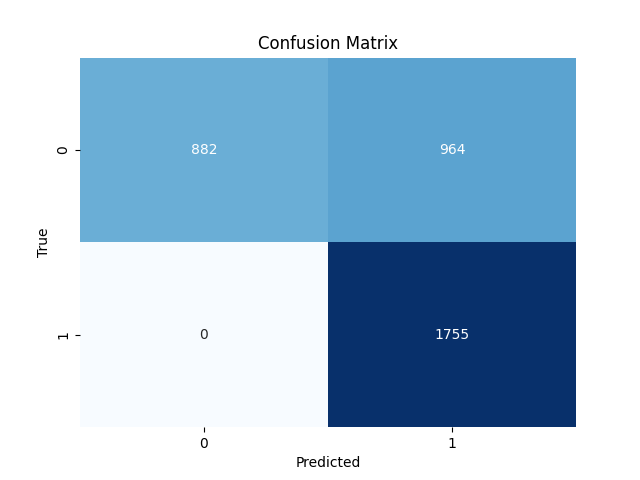
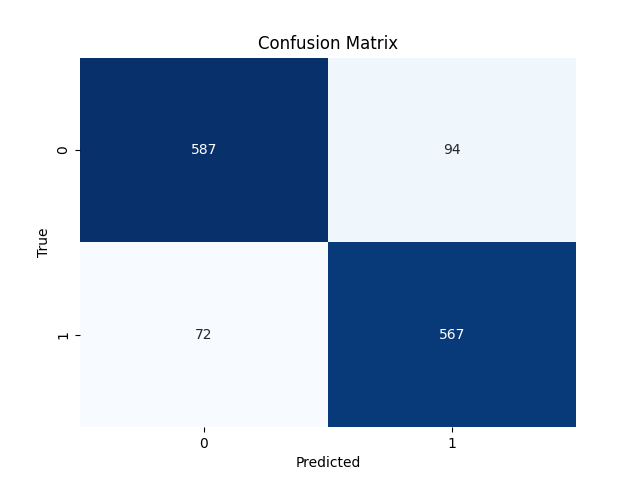
have to finish changes in Validation_Frameworks.py

Changed region(s): [[0.125, 0.0938, 0.9062, 0.5312], [0.6875, 0.6875, 0.75, 0.7188], [0.3125, 0.6875, 0.3438, 0.7188]]

diff --git a/Validation_Frameworks.py b/Validation_Frameworks.py
@@ -1,0 +1,144 @@
+import torch
+from sklearn.metrics import accuracy_score, precision_score, recall_score, f1_score, confusion_matrix
+import seaborn as sns
+import matplotlib.pyplot as plt
+from Example_Problems.FordA import FordA_preprocessing
+import numpy as np
+
+
+def plot_confusion_matrix(conf_matrix, output_file="confusion_matrix1.png"):
+    sns.heatmap(conf_matrix, annot=True, fmt="d", cmap="Blues", cbar=False)
+    plt.xlabel("Predicted")
+    plt.ylabel("True")
+    plt.title("Confusion Matrix")
+    plt.savefig(output_file)  # Save the plot to a file
+    plt.show()
+
+
+def print_xth_to_yth(x,y, model, test_inputs, test_labels, device=torch.device('cuda' if torch.cuda.is_available() else 'cpu')):
+    model.eval()  # Set the model to evaluation mode
+
+    # Move inputs and labels to the specified device
+    test_inputs, test_labels = test_inputs.to(device), test_labels.to(device)
+
+    with torch.no_grad():
+        outputs = model(test_inputs)
+        predictions = torch.round(outputs)
+    
+    print("Values:")
+    print(test_labels[x:y+1])
+    print()
+    print("Model predictions:")
+    print(predictions[x:y+1])
+    print()
+    print(outputs[x:y+1])
+
+
+def model_prediction(model, test_input, device=torch.device('cuda' if torch.cuda.is_available() else 'cpu')):
+    model.eval()
+    probability = model(test_input.torchno_grad)
+    return torch.round(probability)
+
+
+def model_predictions(model, test_inputs, device=torch.device('cuda' if torch.cuda.is_available() else 'cpu')):
+    model.eval()  # Set the model to evaluation mode
+
+    # Move inputs and labels to the specified device
+    test_inputs, test_labels = test_inputs.to(device), test_labels.to(device)
+
+    with torch.no_grad():
+        probabilities= model(test_inputs)
+        predictions = torch.round(probabilities)
+    return predictions
+
+#models = {'model1': model1, 'model2': model2}
+def compare_models(**model, test_inputs, test_labels, device=torch.device('cuda' if torch.cuda.is_available() else 'cpu')):
+    modelnames_list = []
+    metrics_list = []
+    for model_name, model in models.items():
+        modelnames_list.append(model_name)
+        metric = model_metrics(model, test_inputs, test_labels)
+        metrics_list.append(metric)
+
+
+def model_metrics(model, test_inputs, test_labels, device=torch.device('cuda' if torch.cuda.is_available() else 'cpu')):
+
+    # Convert predictions and labels to numpy arrays
+    y_pred = model_predictions(model, test_inputs).cpu().numpy()
+    y_true = test_labels.cpu().numpy()
+
+    # Calculate evaluation metrics
+    accuracy = accuracy_score(y_true, y_pred)
+    precision = precision_score(y_true, y_pred)
+    recall = recall_score(y_true, y_pred)
+    f1 = f1_score(y_true, y_pred)
+
+    # Generate confusion matrix
+    conf_matrix = confusion_matrix(y_true, y_pred)
+
+    # Print metrics and confusion matrix
+    print(f"Accuracy: {accuracy:.4f}")
+    print(f"Precision: {precision:.4f}")
+    print(f"Recall: {recall:.4f}")
+    print(f"F1 Score: {f1:.4f}")
+    print("Confusion Matrix:")
+    print(conf_matrix)
+
+    # Plot and save confusion matrix
+    plot_confusion_matrix(conf_matrix, output_file="confusion_matrix.png")
+
+    # Return metrics as a dictionary
+    metrics = {
+        'accuracy': accuracy,
+        'precision': precision,
+        'recall': recall,
+        'f1_score': f1,
+        'confusion_matrix': conf_matrix
+    }
+
+    return metrics
+
+def evaluate_model(model, test_inputs, test_labels, device=torch.device('cuda' if torch.cuda.is_available() else 'cpu')):
+
+    # Convert predictions and labels to numpy arrays
+    y_pred = model_predictions(model, test_inputs).cpu().numpy()
+    y_true = test_labels.cpu().numpy()
+
+    # Calculate evaluation metrics
+    accuracy = accuracy_score(y_true, y_pred)
+    precision = precision_score(y_true, y_pred)
+    recall = recall_score(y_true, y_pred)
+    f1 = f1_score(y_true, y_pred)
+
+    # Generate confusion matrix
+    conf_matrix = confusion_matrix(y_true, y_pred)
+
+    # Print metrics and confusion matrix
+    print(f"Accuracy: {accuracy:.4f}")
+    print(f"Precision: {precision:.4f}")
+    print(f"Recall: {recall:.4f}")
+    print(f"F1 Score: {f1:.4f}")
+    print("Confusion Matrix:")
+    print(conf_matrix)
+
+    # Plot and save confusion matrix
+    plot_confusion_matrix(conf_matrix, output_file="confusion_matrix.png")
+
+    # Return metrics as a dictionary
+    metrics = {
+        'accuracy': accuracy,
+        'precision': precision,
+        'recall': recall,
+        'f1_score': f1,
+        'confusion_matrix': conf_matrix
+    }
+
+    return metrics
+
+if __name__ == "__main__":
+    # Assuming you have a PyTorch model named 'model'
+    labels, inputs = FordA_preprocessing(True)
+    model = torch.load('Models/Feature2LBinaryClassifier_2024-01-30_trained')
+    # Assuming you have test_inputs and test_labels as PyTorch tensors
+    evaluate_model(model, inputs, labels, device=torch.device('cuda' if torch.cuda.is_available() else 'cpu'))
+    #print_xth_to_yth(0,10, model, inputs, labels, device=torch.device('cpu'))

diff --git a/Train_model.py b/Train_model.py
@@ -104,24 +104,24 @@ def train_RawSimpleBinaryClassifier():
     """
     Train the SimpleBinaryClassifier model with predefined parameters.
     """
-    signalsize = 128
     # Load training data:
-    inputs, labels = preprocess_data("Example_Problems/Data/training_data_9999_simple_32.pkl")
+    labels, inputs = FordA_preprocessing()
+    signalsize = inputs.size(1)
     # Create and save model pretrained and posttrained
     train_model_with_params(RawSimpleBinaryClassifier, signalsize, losscriterion=nn.BCELoss, 
-                            optimizer=optim.Adam, batchsize=512, num_epochs=1000, inputs=inputs, outputs=labels)
+                            optimizer=optim.Adam, batchsize=512, num_epochs=100, inputs=inputs, outputs=labels)
 
 
 def train_SimpleBinaryClassifier():
     """
     Train the SimpleBinaryClassifier model with predefined parameters.
     """
-    signalsize = 128
     # Load training data:
-    inputs, labels = preprocess_data("Example_Problems/training_data_9999_simple_128.pkl")
+    labels, inputs = FordA_preprocessing()
+    signalsize = inputs.size(1)
     # Create and save model pretrained and posttrained
     train_model_with_params(SimpleBinaryClassifier, signalsize, losscriterion=nn.BCELoss, 
-                            optimizer=optim.Adam, batchsize=512, num_epochs=1000, inputs=inputs, outputs=labels)
+                            optimizer=optim.Adam, batchsize=512, num_epochs=100, inputs=inputs, outputs=labels)
 
 
 def train_Feature2LBinaryClassifier():
@@ -132,12 +132,12 @@ def train_Feature2LBinaryClassifier():
     # Load training data:
     labels, inputs = FordA_preprocessing()
     signalsize = inputs.size(1)
-    print(signalsize)
+
     # Create and save model pretrained and posttrained
     train_model_with_params(Feature2LBinaryClassifier, signalsize, feature_function, losscriterion=nn.BCELoss, 
                             optimizer=optim.Adam, batchsize=512, num_epochs=100, inputs=inputs, outputs=labels)
 
 if __name__ == "__main__":
-    #train_RawSimpleBinaryClassifier()
-    #train_SimpleBinaryClassifier()
-    train_Feature2LBinaryClassifier()
+    train_RawSimpleBinaryClassifier()
+    train_SimpleBinaryClassifier()
+    #train_Feature2LBinaryClassifier()
